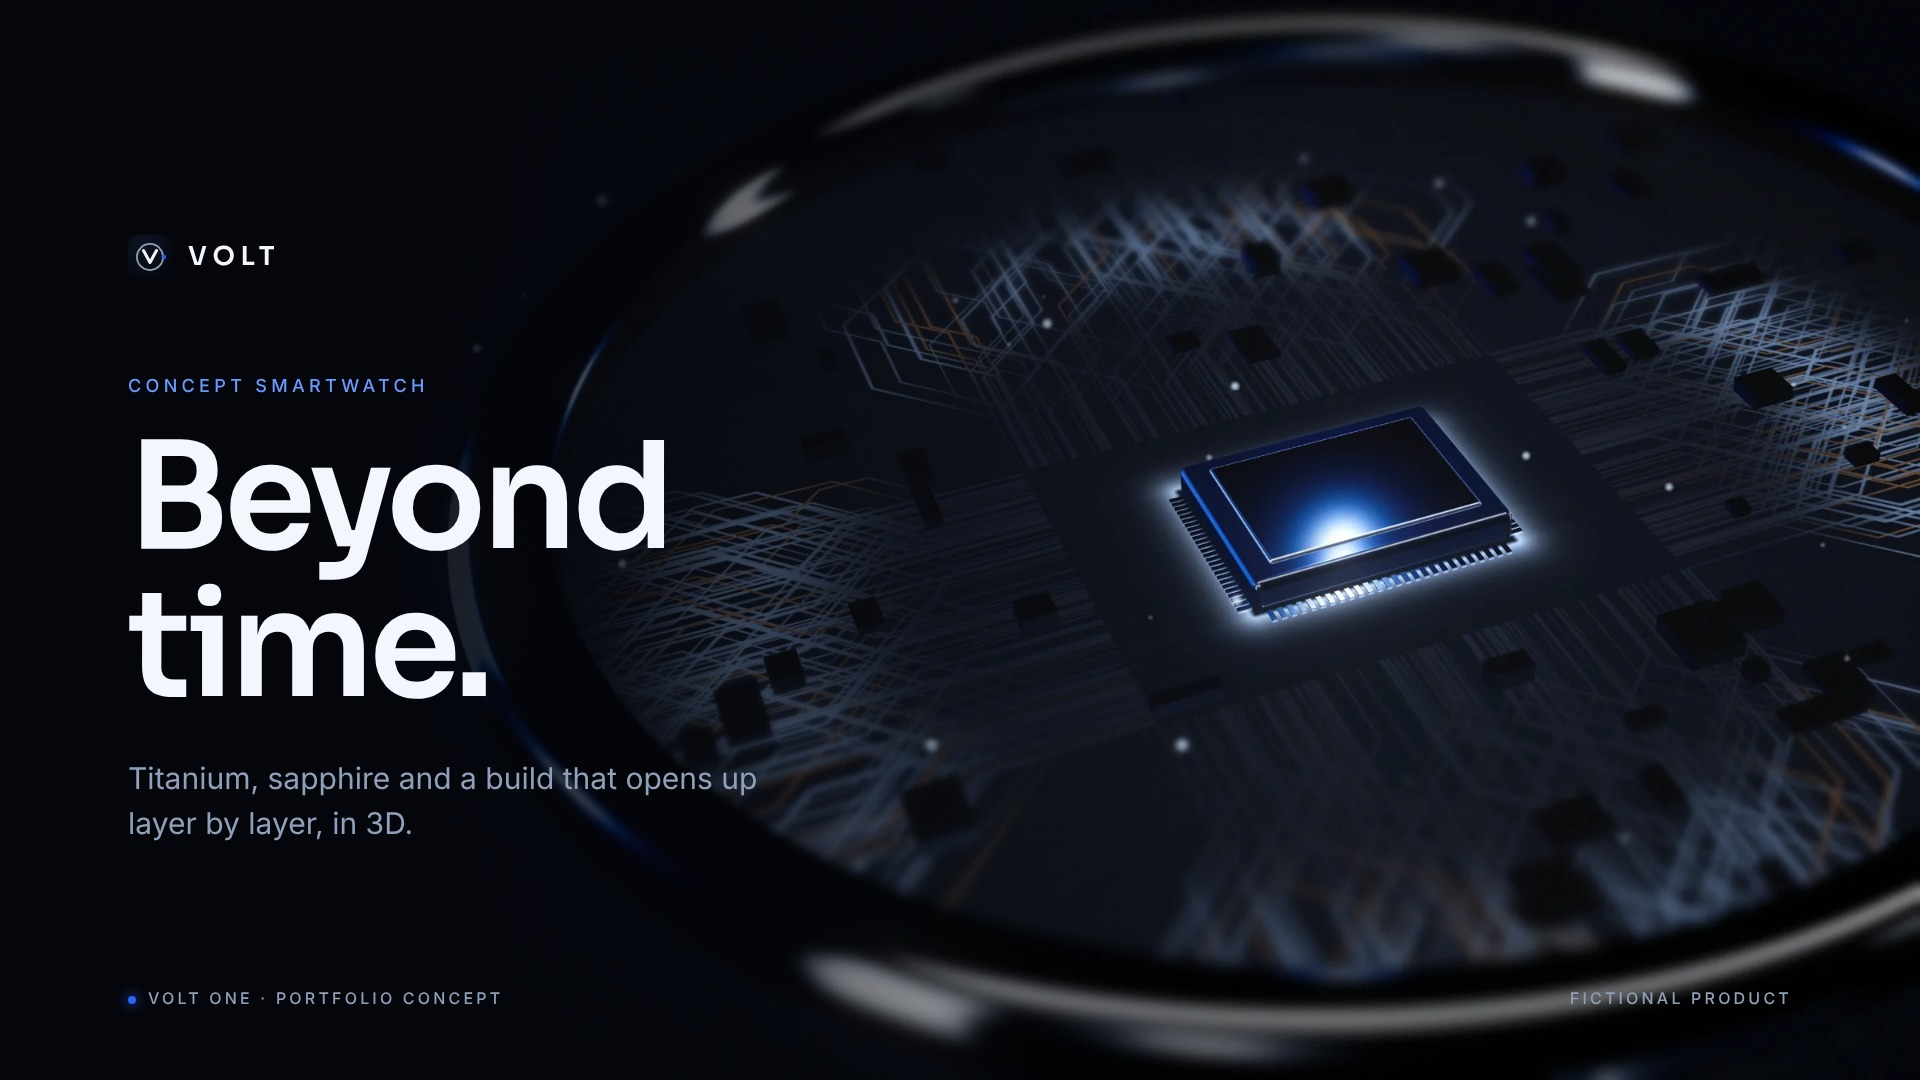
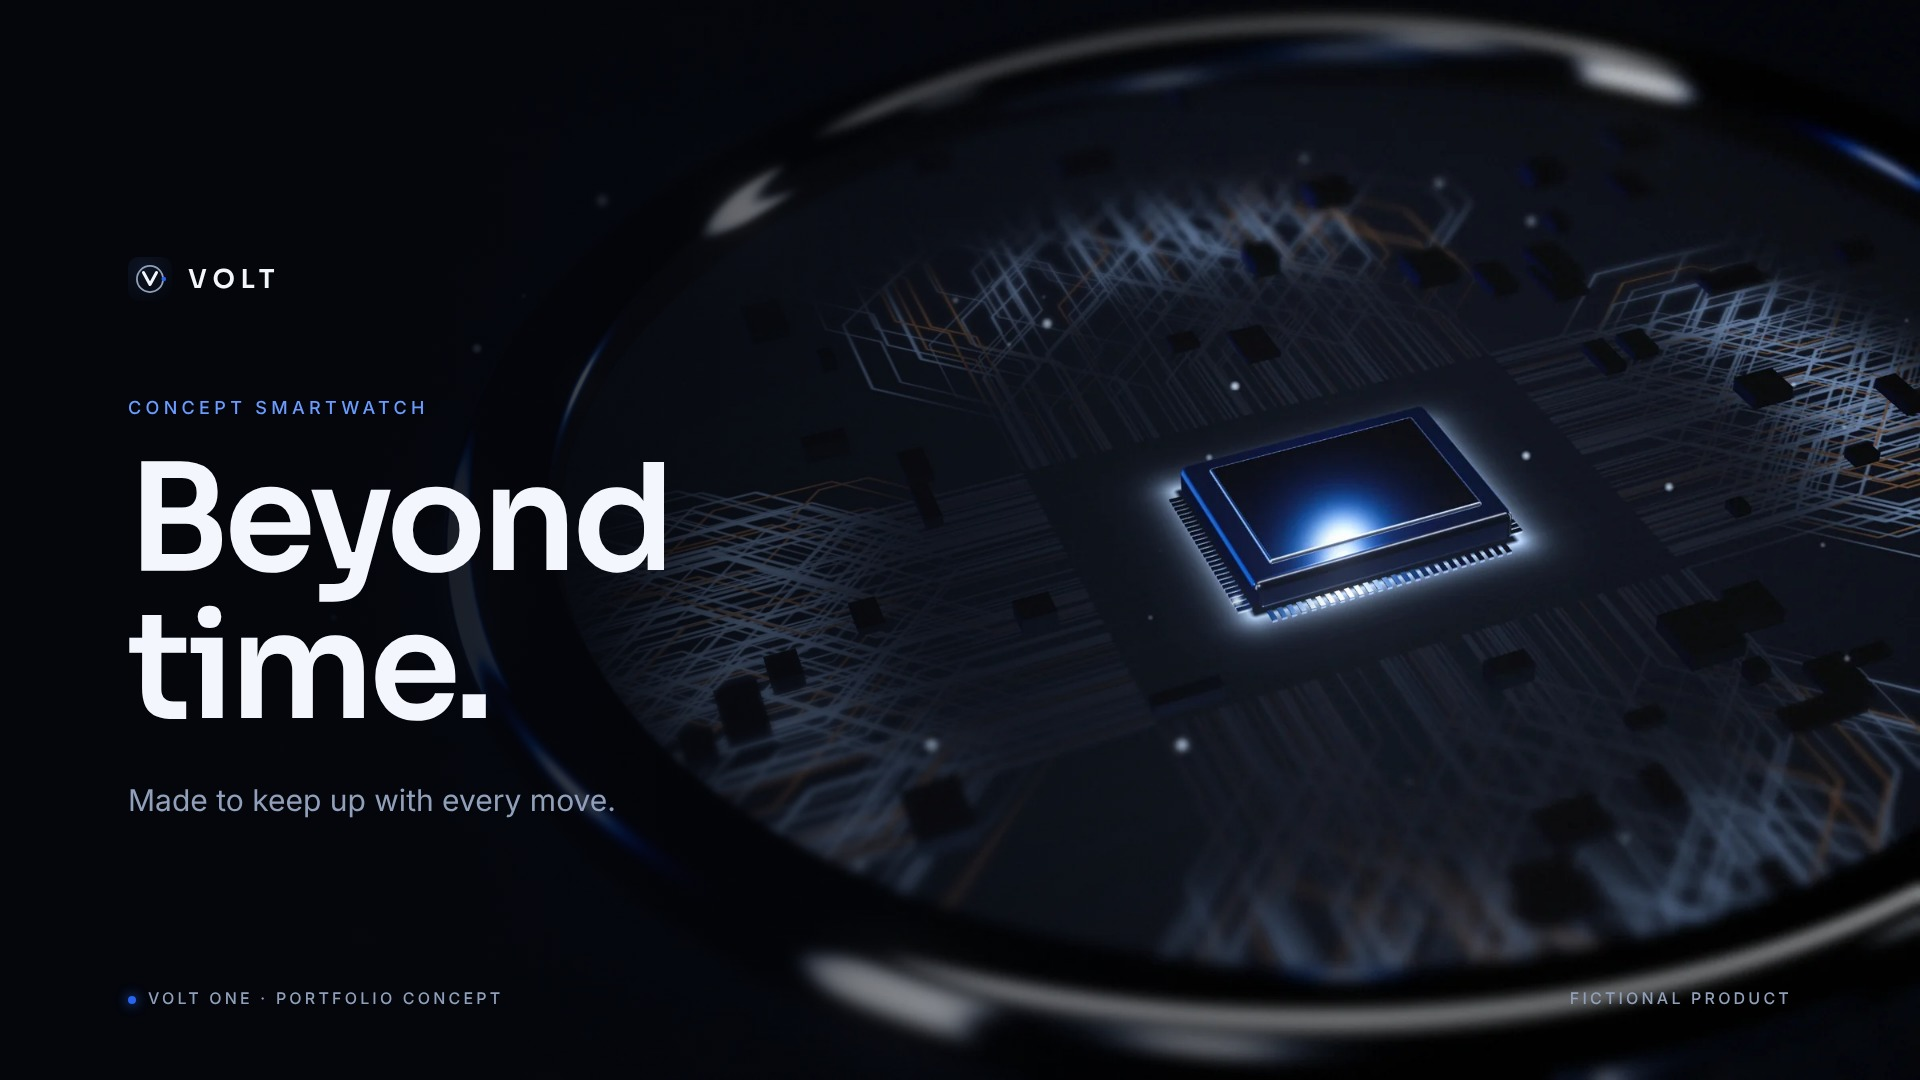
Frase do hero mais curta e capas com subtitulo do projeto
Claude-Session: https://claude.ai/code/session_015fBC8hVVoJRo1UqrJkWwk9

Changed region(s): [[0.0625, 0.3361, 0.3438, 0.6722], [0.0625, 0.7028, 0.4062, 0.7944], [0.0625, 0.2139, 0.1562, 0.275]]

diff --git a/index.html b/index.html
@@ -416,7 +416,7 @@ section{position:relative}
     </picture>
     <div class="hero__inner">
       <h1 id="hero-title" class="rise" data-i18n="heroTitle">Além do tempo.</h1>
-      <p class="lede rise" data-i18n="heroLede">Tecnologia projetada para acompanhar cada movimento. Engenharia de precisão em uma forma que você pode sentir.</p>
+      <p class="lede rise" data-i18n="heroLede">Feito para acompanhar cada movimento, com precisão que dá para sentir.</p>
       <div class="cta-row rise">
         <a class="btn btn--primary" href="#engenharia"><span data-i18n="heroCta1">Conheça o VOLT One</span>
           <svg viewBox="0 0 16 16" aria-hidden="true"><path d="M3 8h10M9 4l4 4-4 4" fill="none" stroke="currentColor" stroke-width="1.6" stroke-linecap="round" stroke-linejoin="round"/></svg></a>

diff --git a/assets/js/i18n.js b/assets/js/i18n.js
@@ -5,7 +5,7 @@ export const EN = {
   brandAria: 'VOLT, back to top', navAria: 'Main', langAria: 'Language', footAria: 'Footer',
   navExplore: 'Explore', navEng: 'Engineering', navSpecs: 'Specs', footMat: 'Materials',
   heroTitle: 'Beyond time.',
-  heroLede: 'Technology designed to keep up with every move. Precision engineering in a form you can feel.',
+  heroLede: 'Made to keep up with every move, with precision you can feel.',
   heroCta1: 'Meet VOLT One', 
   cue: 'Scroll to explore',
   introKicker: 'Beneath the glass', introTitle: 'Every detail has a reason.', introSub: 'Before showing what it does, let’s open the watch.',
